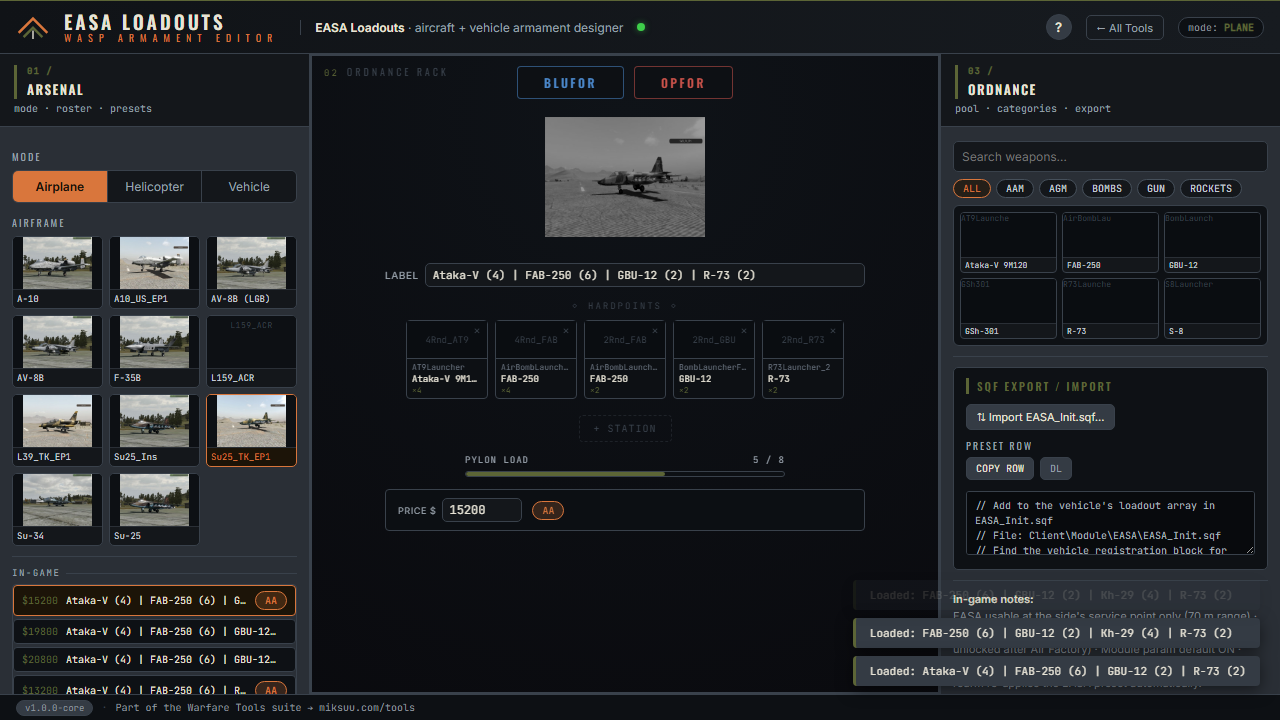
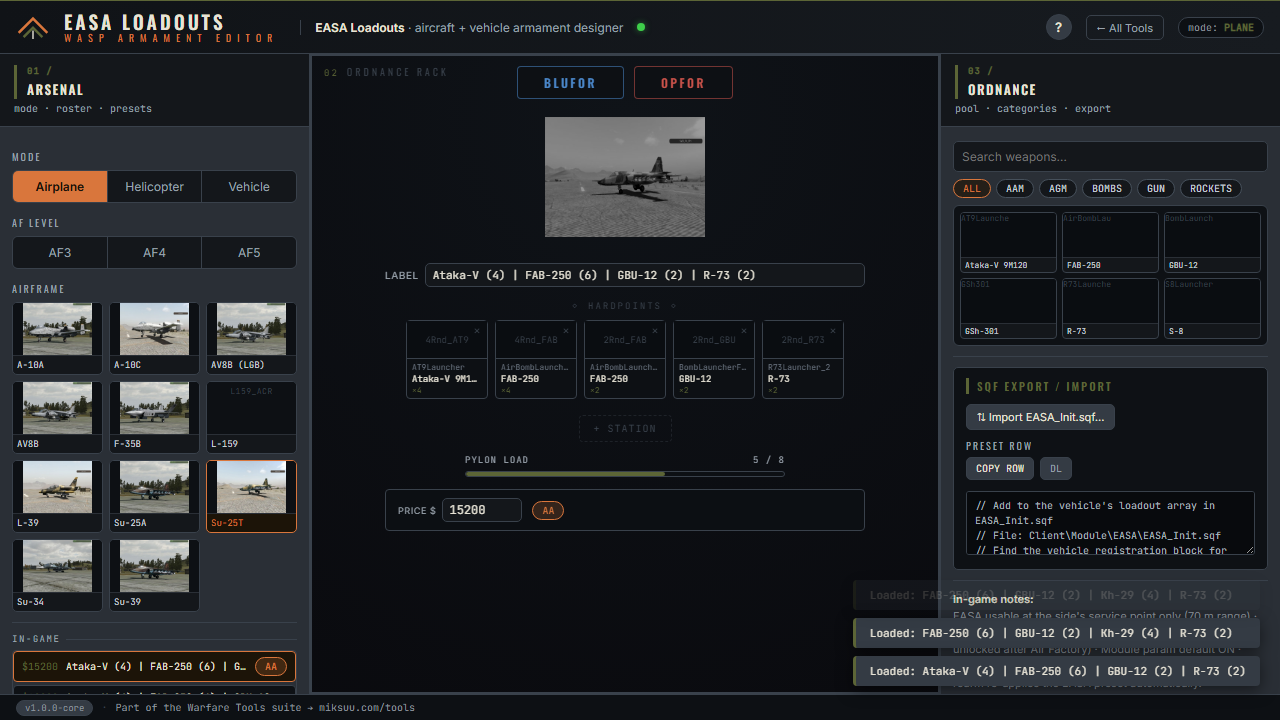
feat: multi-select AF level filter above the airframe roster
New "AF Level" button row (AF1-AF5, derived from the current mode's
roster) above the Airframe grid. Buttons toggle independently so
multiple aircraft-factory levels can be selected at once; an empty
selection shows the full roster. Selection persists via the existing
autosave snapshot and is restored with the session.

Levels come from the new afLevel field in airframes.json (sourced
from a2waspwarfare LoadoutManager inGameFactoryLevel).

Playwright: 6 new tests — mission names in plane/heli pickers, AF
buttons rendered above the grid, single-select, multi-select union,
deselect-all restore, per-mode level derivation (37/37 pass).

Changed region(s): [[0.0, 0.3056, 0.25, 0.9778]]

diff --git a/index.html b/index.html
@@ -17,6 +17,7 @@
  * state = {
  *   mode: 'plane' | 'heli' | 'vehicle',
  *   side: 'blufor' | 'opfor' | null,       // side filter (null = all sides)
+ *   afLevels: number[],                    // selected AF (aircraft factory) levels (empty = all)
  *   airframeClass: string | null,         // selected EASA-registered airframe class
  *   rack: Array<{                          // ordered station entries
  *     id: string,                          // random uuid for keying
@@ -577,6 +578,10 @@ kbd { background: var(--steel2); border: 1px solid var(--line); border-radius: 3
 
       <!-- Airframe picker (plane/heli mode) -->
       <div id="airframePicker">
+        <!-- AF (aircraft factory) level filter — multi-select -->
+        <div class="section-label" id="afLevelLabel">AF Level</div>
+        <div id="afLevelBtns" class="segmented" role="group" aria-labelledby="afLevelLabel"></div>
+
         <div class="section-label">Airframe</div>
         <div id="pickerGrid" class="picker-grid" role="list" aria-label="Airframe selection"></div>
 
@@ -890,6 +895,7 @@ const DATA = {
 const state = {
   mode: 'plane',
   side: null,
+  afLevels: [],         // selected AF (aircraft factory) levels; empty = show all
   airframeClass: null,
   rack: [],             // [{id, weaponClass, magClass, isGun}]
   price: 0,
@@ -945,7 +951,7 @@ const LS_PENDING = 'easa-loadouts-pending-v1';
 function saveState() {
   try {
     const snap = {
-      mode: state.mode, side: state.side,
+      mode: state.mode, side: state.side, afLevels: [...state.afLevels],
       airframeClass: state.airframeClass, rack: [...state.rack],
       price: state.price, label: state.label,
       selectedPresetRef: state.selectedPresetRef, dirty: state.dirty,
@@ -1109,12 +1115,51 @@ function catLabel(cat) { return CAT_LABELS[cat] || cat?.toUpperCase() || '?'; }
 const AIR_CATS = ['gun','rockets','agm','bomb','aam','cm'];
 
 /* ============================================================
+   Render — AF (aircraft factory) level filter buttons
+   ============================================================ */
+// AF levels available in the current mode's roster (pre-filter), ascending
+function afLevelsForMode(mode) {
+  const lvls = airframesForMode(mode).map(a => a.afLevel).filter(l => l != null);
+  return [...new Set(lvls)].sort((a, b) => a - b);
+}
+
+function renderAfLevelBtns() {
+  const el = $('afLevelBtns'); if(!el) return;
+  el.innerHTML = '';
+  const levels = afLevelsForMode(state.mode);
+  const lbl = $('afLevelLabel');
+  const show = levels.length > 0;
+  el.style.display = show ? 'flex' : 'none';
+  if(lbl) lbl.style.display = show ? 'block' : 'none';
+  for(const lv of levels) {
+    const b = document.createElement('button');
+    const on = state.afLevels.includes(lv);
+    if(on) b.className = 'on';
+    b.textContent = 'AF' + lv;
+    b.setAttribute('aria-pressed', on ? 'true' : 'false');
+    b.setAttribute('aria-label', `Aircraft factory level ${lv}`);
+    b.onclick = () => toggleAfLevel(lv);
+    el.appendChild(b);
+  }
+}
+
+// Multi-select toggle; empty selection = no filtering
+function toggleAfLevel(lv) {
+  const i = state.afLevels.indexOf(lv);
+  if(i >= 0) state.afLevels.splice(i, 1); else state.afLevels.push(lv);
+  renderPicker();
+  debouncedSave();
+}
+
+/* ============================================================
    Render — airframe picker (left panel)
    ============================================================ */
 function renderPicker() {
+  renderAfLevelBtns();
   const grid = $('pickerGrid'); if(!grid) return;
   grid.innerHTML = '';
-  const afs = airframesForMode(state.mode);
+  let afs = airframesForMode(state.mode);
+  if(state.afLevels.length) afs = afs.filter(a => state.afLevels.includes(a.afLevel));
   if(!afs.length) {
     const ph = document.createElement('div');
     ph.className='picker-empty'; ph.style.gridColumn='1/-1';
@@ -2496,6 +2541,8 @@ function checkRestore() {
 function applyRestoredState(saved) {
   Object.assign(state, saved);
   state.side = saved.side || null;
+  state.afLevels = Array.isArray(saved.afLevels)
+    ? saved.afLevels.filter(l => Number.isInteger(l)) : [];
   applySideUI();
   setMode(state.mode);
   if(state.airframeClass) { selectAirframe(state.airframeClass); }

diff --git a/tools/test_playwright.py b/tools/test_playwright.py
@@ -574,6 +574,109 @@ with sync_playwright() as p:
     else:
         fail("Arsenal panel: faction filter removal", f"{faction_gone}")
 
+    # ── Test 15: Mission display names (LoadoutManager parity) ───────────────
+    page.click("#modeBtn-plane")
+    page.wait_for_timeout(400)
+    plane_labels = page.evaluate(
+        "() => [...document.querySelectorAll('#pickerGrid .picker-lab')].map(l => l.textContent)")
+    expected_planes = ['A-10A', 'A-10C', 'Su-39', 'Su-25T', 'Su-25A', 'AV8B (LGB)', 'L-39', 'L-159']
+    missing = [n for n in expected_planes if n not in plane_labels]
+    if not missing:
+        ok("Mission names: plane picker uses LoadoutManager names (A-10A, Su-39, …)")
+    else:
+        fail("Mission names: plane picker", f"missing {missing} in {plane_labels}")
+
+    page.click("#modeBtn-heli")
+    page.wait_for_timeout(400)
+    heli_labels = page.evaluate(
+        "() => [...document.querySelectorAll('#pickerGrid .picker-lab')].map(l => l.textContent)")
+    expected_helis = ['AH-64D (TOW)', 'AH-64D (Hellfire)', 'Mi-24V (CZ)', 'Ka-52 (Black)']
+    missing = [n for n in expected_helis if n not in heli_labels]
+    if not missing:
+        ok("Mission names: heli picker uses LoadoutManager names (AH-64D (TOW), …)")
+    else:
+        fail("Mission names: heli picker", f"missing {missing} in {heli_labels}")
+
+    # ── Test 16: AF level buttons render above the airframe grid ─────────────
+    page.click("#modeBtn-plane")
+    page.wait_for_timeout(400)
+    af_btns = page.evaluate("""() => {
+        const btns = [...document.querySelectorAll('#afLevelBtns button')];
+        const bar = document.getElementById('afLevelBtns');
+        const grid = document.getElementById('pickerGrid');
+        return {
+            labels: btns.map(b => b.textContent),
+            aboveGrid: !!(bar && grid &&
+                (bar.compareDocumentPosition(grid) & Node.DOCUMENT_POSITION_FOLLOWING)),
+        };
+    }""")
+    if af_btns['labels'] == ['AF3', 'AF4', 'AF5'] and af_btns['aboveGrid']:
+        ok("AF filter: AF3/AF4/AF5 buttons rendered above the airframe grid")
+    else:
+        fail("AF filter: buttons", f"{af_btns}")
+
+    # ── Test 17: AF level single-select filters the picker ───────────────────
+    all_planes = page.evaluate("() => document.querySelectorAll('#pickerGrid .picker-tile').length")
+    page.evaluate("() => [...document.querySelectorAll('#afLevelBtns button')].find(b => b.textContent==='AF5').click()")
+    page.wait_for_timeout(300)
+    af5 = page.evaluate("""() => {
+        const labels = [...document.querySelectorAll('#pickerGrid .picker-lab')].map(l => l.textContent);
+        const btn = [...document.querySelectorAll('#afLevelBtns button')].find(b => b.textContent==='AF5');
+        return { labels, pressed: btn.getAttribute('aria-pressed') === 'true', sel: window.state.afLevels };
+    }""")
+    af5_expected = {'Su-34', 'Su-39', 'F-35B', 'AV8B'}
+    if af5['pressed'] and af5['sel'] == [5] and set(af5['labels']) == af5_expected:
+        ok(f"AF filter: AF5 shows only level-5 planes ({len(af5['labels'])}/{all_planes})")
+    else:
+        fail("AF filter: AF5 single select", f"{af5}")
+
+    # ── Test 18: AF level multi-select unions levels ──────────────────────────
+    page.evaluate("() => [...document.querySelectorAll('#afLevelBtns button')].find(b => b.textContent==='AF4').click()")
+    page.wait_for_timeout(300)
+    af45 = page.evaluate("""() => {
+        const labels = [...document.querySelectorAll('#pickerGrid .picker-lab')].map(l => l.textContent);
+        const on = [...document.querySelectorAll('#afLevelBtns button.on')].map(b => b.textContent);
+        return { labels, on, sel: [...window.state.afLevels].sort() };
+    }""")
+    af45_expected = af5_expected | {'Su-25T', 'A-10C', 'AV8B (LGB)'}
+    if sorted(af45['on']) == ['AF4', 'AF5'] and af45['sel'] == [4, 5] and set(af45['labels']) == af45_expected:
+        ok(f"AF filter: AF4+AF5 multi-select shows {len(af45['labels'])} planes")
+    else:
+        fail("AF filter: multi-select", f"{af45}")
+
+    # ── Test 19: Deselecting all AF levels restores the full roster ──────────
+    for lv in ('AF4', 'AF5'):
+        page.evaluate(f"() => [...document.querySelectorAll('#afLevelBtns button')].find(b => b.textContent==='{lv}').click()")
+        page.wait_for_timeout(200)
+    reset = page.evaluate("""() => ({
+        count: document.querySelectorAll('#pickerGrid .picker-tile').length,
+        sel: window.state.afLevels
+    })""")
+    if reset['count'] == all_planes and reset['sel'] == []:
+        ok(f"AF filter: deselect-all restores all {all_planes} planes")
+    else:
+        fail("AF filter: deselect all", f"{reset}")
+
+    # ── Test 20: AF filter follows the mode's roster (heli levels) ───────────
+    page.click("#modeBtn-heli")
+    page.wait_for_timeout(400)
+    heli_af = page.evaluate("""() => {
+        [...document.querySelectorAll('#afLevelBtns button')].find(b => b.textContent==='AF3').click();
+        return null;
+    }""")
+    page.wait_for_timeout(300)
+    heli_af3 = page.evaluate(
+        "() => [...document.querySelectorAll('#pickerGrid .picker-lab')].map(l => l.textContent)")
+    heli_af3_expected = {'Mi-24V (CZ)', 'AH-64D (TOW)', 'Wildcat AH11', 'Mi-24V', 'Mi-24P'}
+    if set(heli_af3) == heli_af3_expected:
+        ok(f"AF filter: heli mode AF3 shows {len(heli_af3)} level-3 helicopters")
+    else:
+        fail("AF filter: heli mode", f"{sorted(heli_af3)}")
+    # cleanup: deselect + back to plane
+    page.evaluate("() => [...document.querySelectorAll('#afLevelBtns button')].find(b => b.textContent==='AF3').click()")
+    page.click("#modeBtn-plane")
+    page.wait_for_timeout(300)
+
     browser.close()
 
 # ── summary ───────────────────────────────────────────────────────────────────